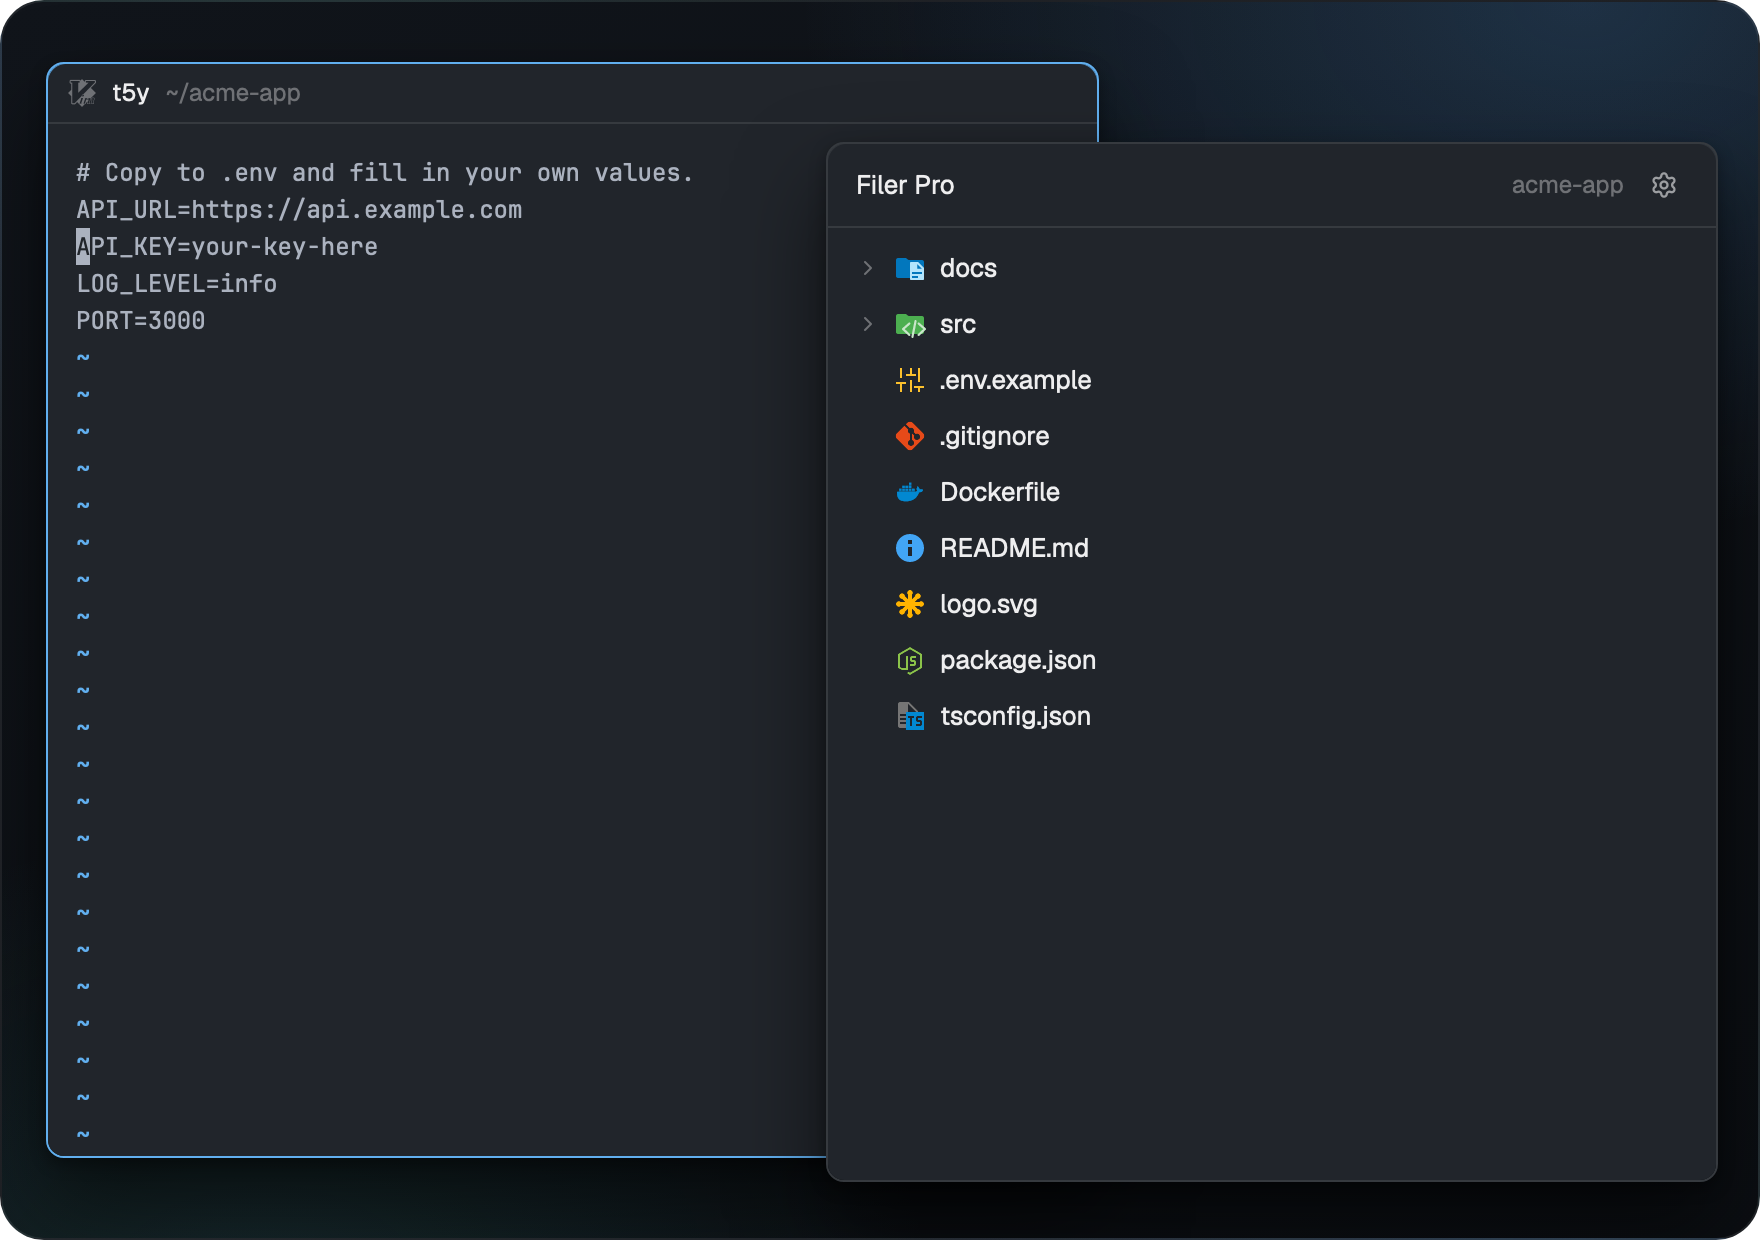
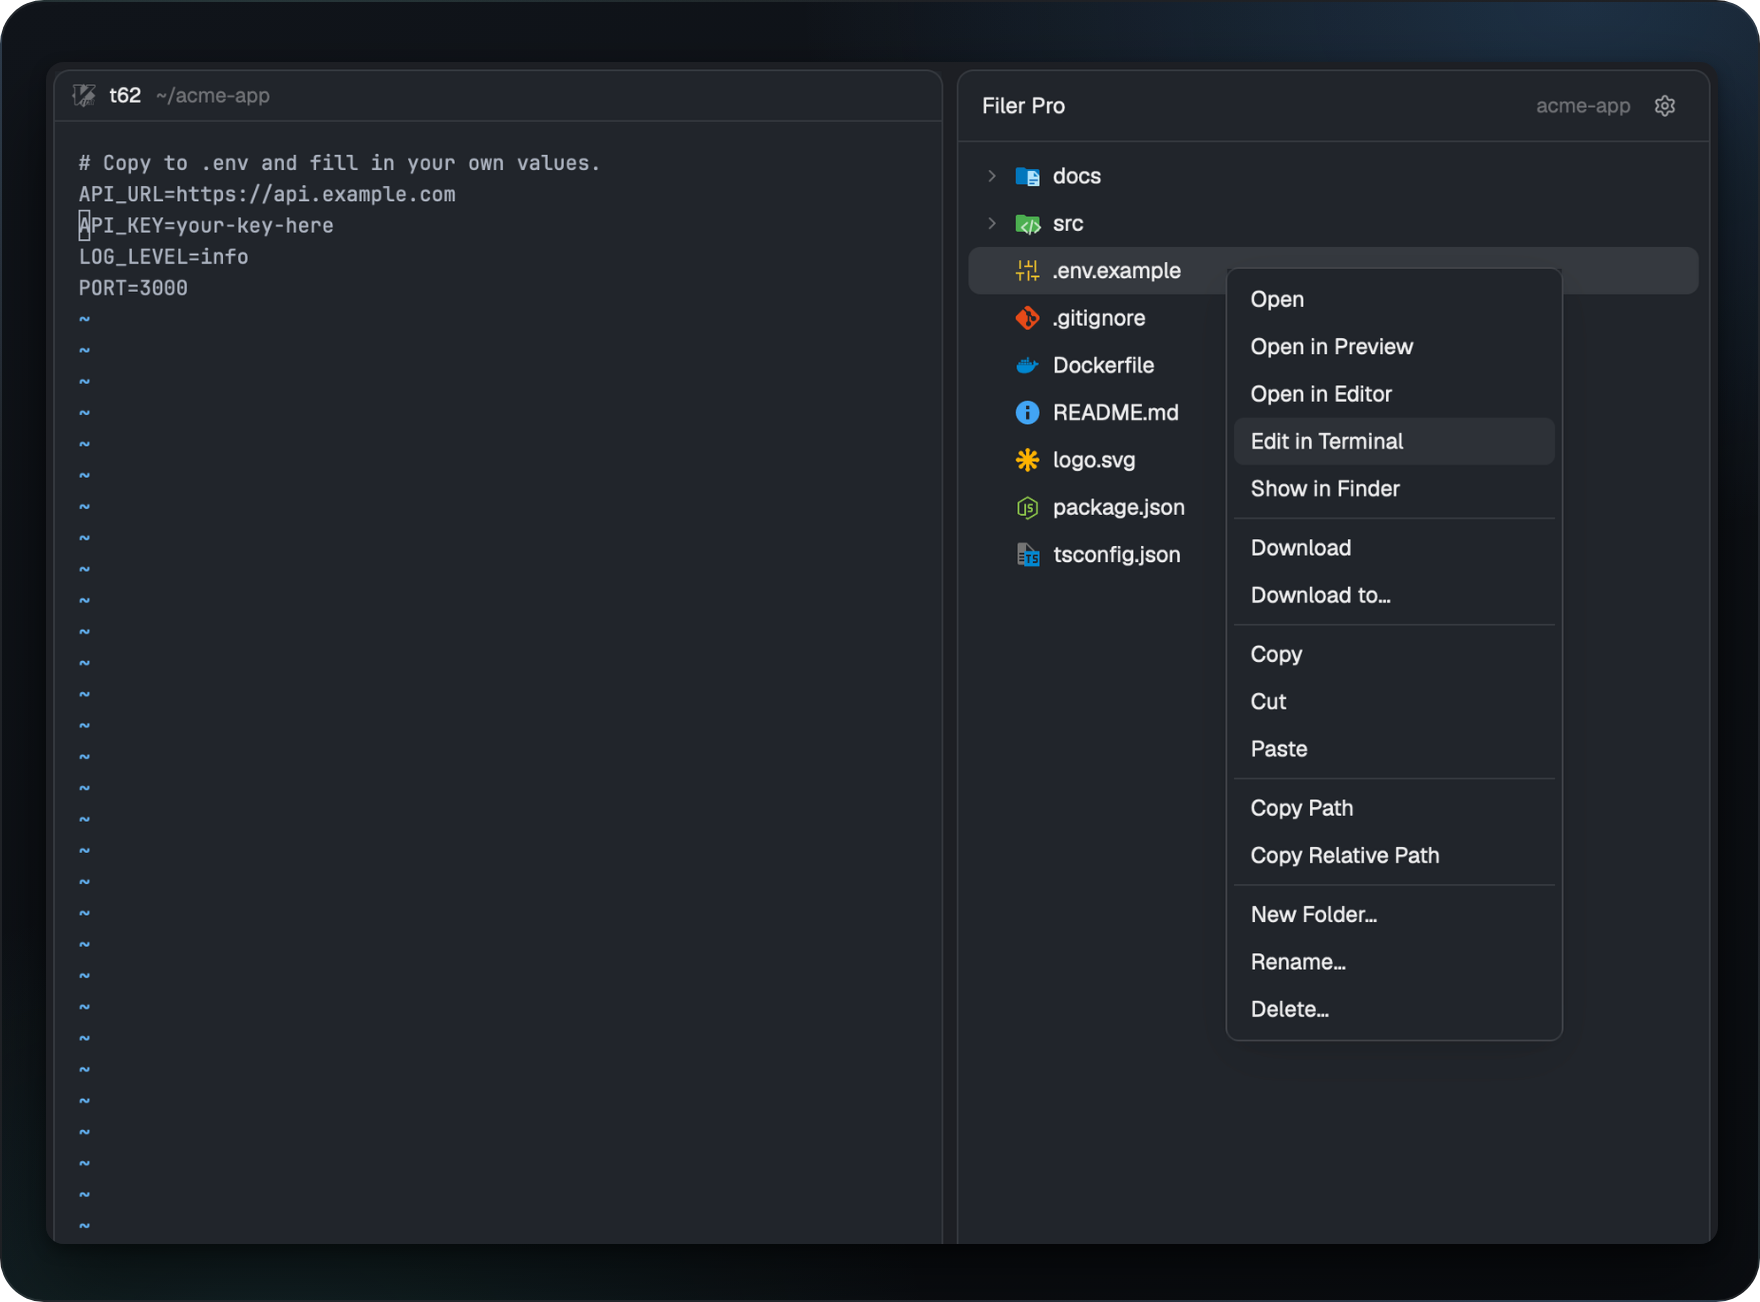
docs: show the context menu in the Edit in Terminal image
Rebuild screenshots/edit-terminal.png from one window shot: the vi split
on .env.example left, the Filer Pro panel right with the row menu open and
Edit in Terminal hovered, so cause and effect are in one image. The card
now holds a single crop scaled to the card width.

The hover state cannot be scripted, so the pipeline notes describe taking
that shot by hand.

diff --git a/scripts/screenshots/cards/edit-terminal.html b/scripts/screenshots/cards/edit-terminal.html
@@ -2,13 +2,11 @@
 <html lang="en"><head><meta charset="utf-8"><title>Edit in Terminal card</title>
 <link rel="stylesheet" href="card.css">
 <style>
-/* layout: the focused vi split left, the Filer Pro panel right over its empty part, as in the window */
-html, body { width: 880px; height: 620px; }
-.vi { left: 22px; top: 30px; width: 526.5px; height: 548px; }
-.shot.cut.vi { border-color: #61afef; }
-.tree { left: 412px; top: 70px; width: 446px; height: 520px; }
+/* layout: one window crop, cause and effect together: the vi split left, the Filer Pro panel right with the row
+   menu open on .env.example and Edit in Terminal hovered. The crop is scaled to the card width. */
+html, body { width: 880px; height: 651px; }
+.window { left: 22px; top: 30px; width: 836px; height: 591px; }
 </style></head>
 <body><div class="frame">
-  <div class="shot cut vi"><img src="edit-terminal-vi.png" alt=""></div>
-  <div class="shot cut tree"><img src="edit-terminal-tree.png" alt=""></div>
+  <div class="shot window"><img src="edit-terminal-window.png" alt=""></div>
 </div></body></html>

diff --git a/scripts/screenshots/README.md b/scripts/screenshots/README.md
@@ -32,16 +32,18 @@ Crops (`cards/*.png`) and the browser profile are ignored by git: they hold wind
 
 2. **Shot.** `herdr-app shot raw.png` saves the whole window at full pixel size. It contains the sidebar and every other space name, so keep it out of the repository (for example in the ignored `tmp/`) and delete it when done.
 
+   A menu in its hover state cannot be scripted. For `edit-terminal.png`, right click `.env.example` in the panel, rest the pointer on **Edit in Terminal** and take a Retina screenshot of the vi split and the panel by hand (Cmd+Shift+4, then drag over both panes).
+
 3. **Crop.** Cut each panel out along its outer border (any image tool, for example Pillow: `Image.open("raw.png").crop((left, top, right, bottom))`) and save it under the name the card expects in `cards/`. Look at every crop: no paths outside the demo folder, no user or host names, no window titles.
 
 4. **Render.** Sizes in CSS pixels, the PNG comes out at twice that:
 
    ```sh
-   scripts/screenshots/render.sh scripts/screenshots/cards/edit-terminal.html screenshots/edit-terminal.png 880 620
+   scripts/screenshots/render.sh scripts/screenshots/cards/edit-terminal.html screenshots/edit-terminal.png 880 651
    scripts/screenshots/render.sh scripts/screenshots/cards/editors.html screenshots/editors.png 880 660
    scripts/screenshots/render.sh scripts/screenshots/cards/settings.html screenshots/settings.png 880 540
    ```
 
-   A panel cut off at the bottom gets the class `cut`, which draws its border again. Open the result and check it once more before you commit it.
+   A panel cut off at the bottom gets the class `cut`, which draws its border again. A crop wider than the card (as in `edit-terminal.html`) is scaled to the card width; end it between two text lines. Open the result and check it once more before you commit it.
 
-5. **Clean up.** Close the demo space (`herdr-app do space.close '{"id":"<space>","confirmed":true}'`), go back to your own space, delete the demo copy and the raw shot. Closing the space leaves the panel state of your other spaces and your settings as they were; `herdr-app status` shows zoom and focus.
+5. **Clean up.** Close the demo space (`herdr-app do space.close '{"id":"<space>","confirmed":true}'`), go back to your own space, delete the demo copy and the raw shot. Your settings, layouts and other spaces stay as they were (`herdr-app status` shows zoom and focus); Herdr only keeps the demo folder in its list of recent folders.

diff --git a/README.md b/README.md
@@ -50,7 +50,7 @@ Code opens with syntax colors and line wrap, HTML and images open in place. One 
 
 ![Context menu with Open in Editor and Edit in Terminal](screenshots/editors.png)
 
-![Edit in Terminal: vi in a split next to the Filer Pro panel](screenshots/edit-terminal.png)
+![Edit in Terminal picked in the context menu, and the file open in vi in a split](screenshots/edit-terminal.png)
 
 Right click a file to open it in VS Code, Cursor or Zed, or to edit it in vi, nano or helix in a split next to your terminal. It works for files on your SSH machines too, and you can add your own editors.
 
